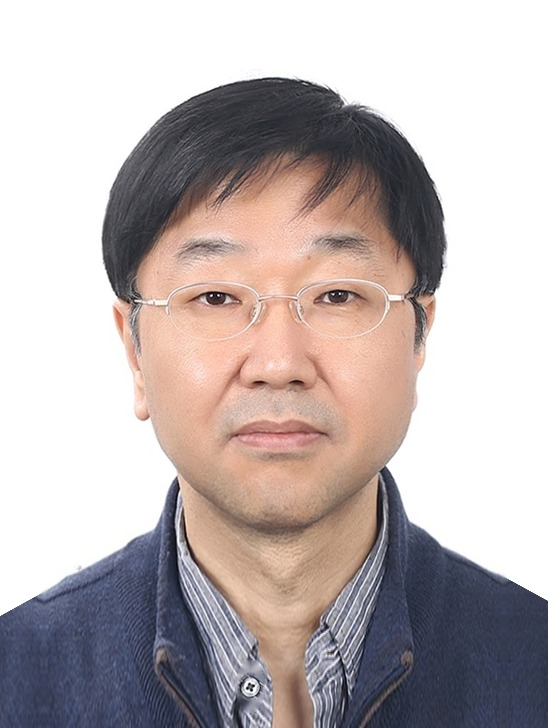
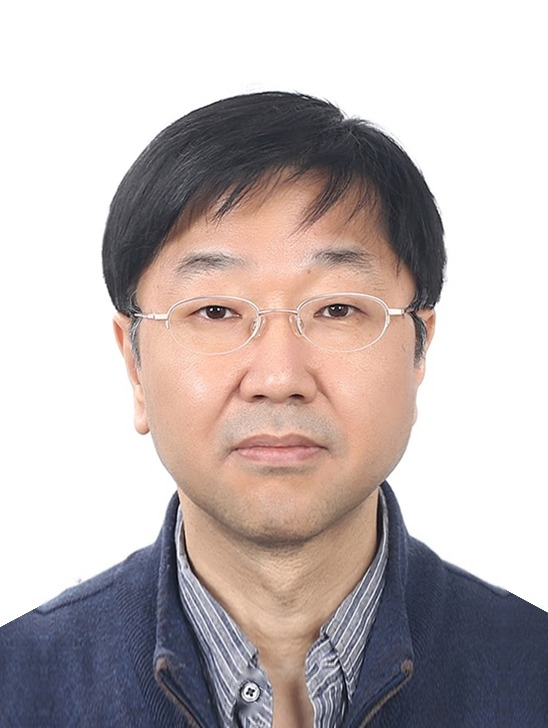
People: professor portrait — face lowered a little more
Claude-Session: https://claude.ai/code/session_0193FsCwCBU5TNaPgPqdxirM

diff --git a/people.html b/people.html
@@ -44,7 +44,7 @@
       <h2>Current Members</h2>
       <div class="members">
         <div class="member member-lead">
-          <div class="photo"><img src="assets/people/hyungson-ki.jpg?v=7" alt="Prof. Hyungson Ki"></div>
+          <div class="photo"><img src="assets/people/hyungson-ki.jpg?v=8" alt="Prof. Hyungson Ki"></div>
           <div class="member-info">
             <h3>Hyungson Ki <span class="name-ko">기형선</span></h3>
             <p>Professor</p>
